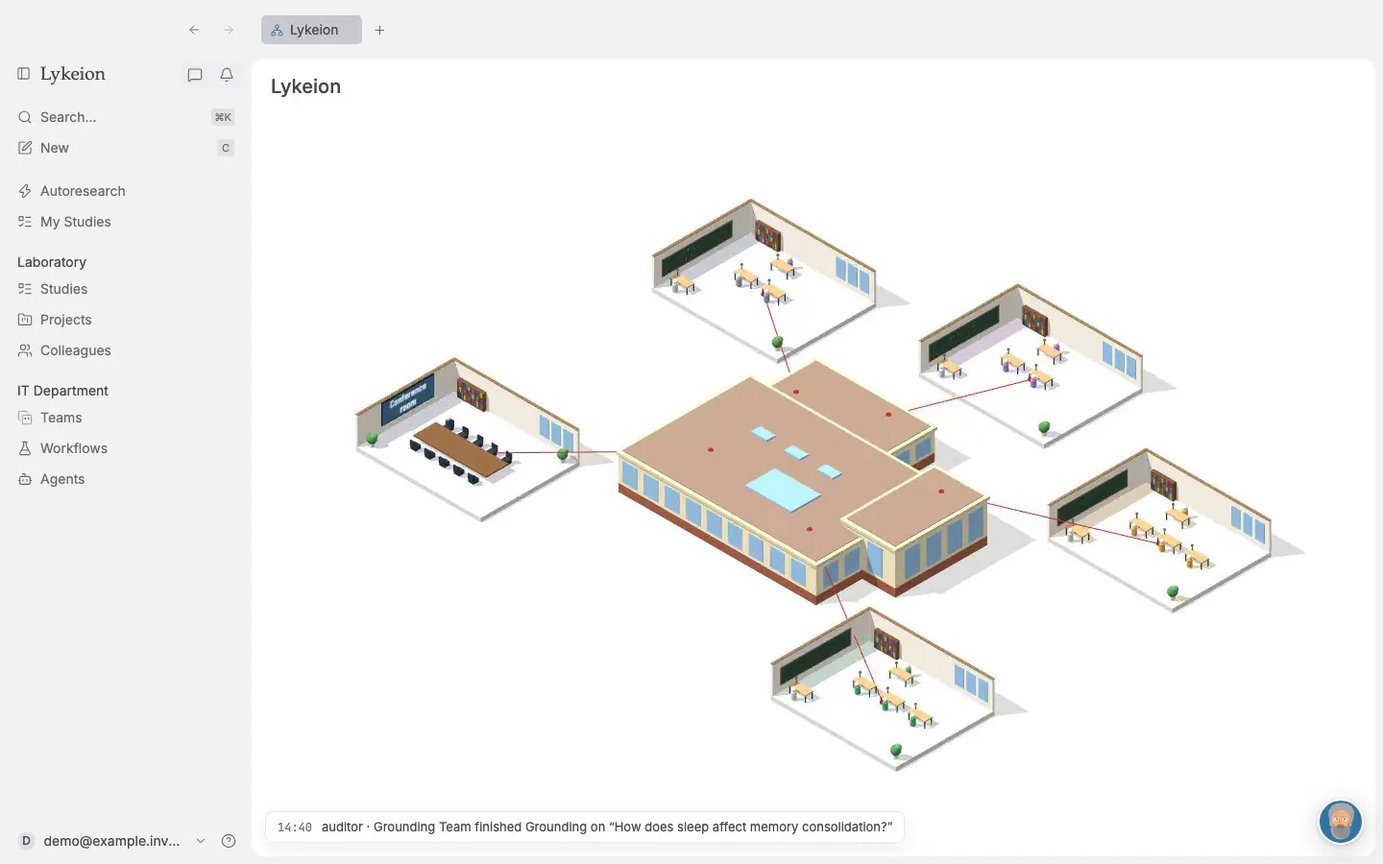
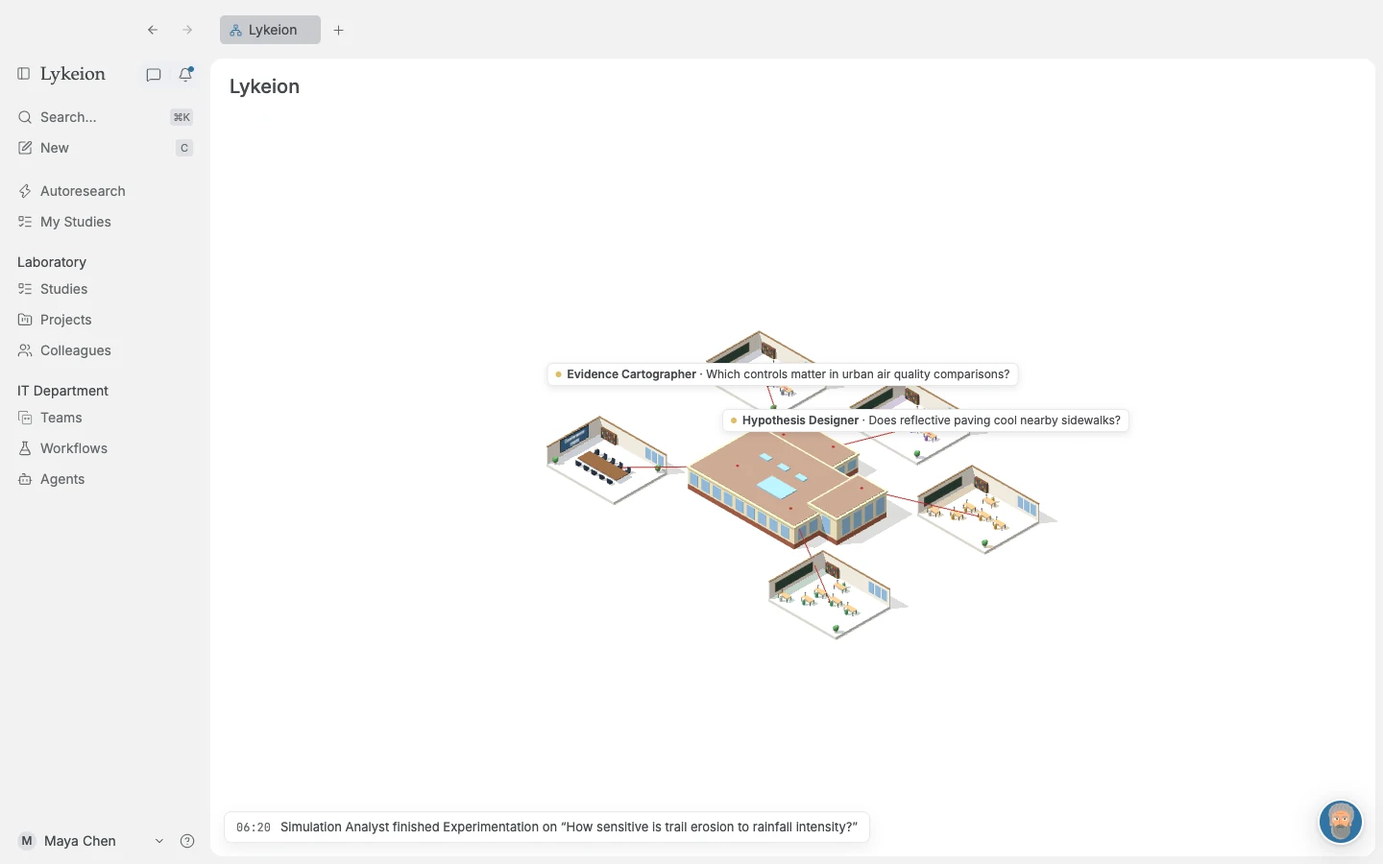
Refresh the website demo and README screenshots

diff --git a/apps/web/src/app/dashboard-preview.tsx b/apps/web/src/app/dashboard-preview.tsx
@@ -4,10 +4,16 @@ import { useEffect, useRef, useState } from 'react';
 
 const screens = {
   board: { label: 'Studies board', image: '/demo-photos/01-board.webp' },
-  study: { label: 'Study activity', image: '/demo-photos/02-study.webp' },
+  study: { label: 'How does tree shade change street temperatures?', image: '/demo-photos/02-study.webp' },
+  airQuality: { label: 'Which controls matter in urban air quality comparisons?', image: '/demo-preview/study2.webp' },
+  paving: { label: 'Does reflective paving cool nearby sidewalks?', image: '/demo-preview/study3.webp' },
+  erosion: { label: 'How sensitive is trail erosion to rainfall intensity?', image: '/demo-preview/study4.webp' },
+  replication: { label: 'Does a cooling estimate survive a held-out block?', image: '/demo-preview/study5.webp' },
   myStudies: { label: 'My Studies', image: '/demo-preview/demo-my-studies.webp' },
   workflows: { label: 'Workflows', image: '/demo-preview/demo-workflows.webp' },
   projects: { label: 'Projects', image: '/demo-preview/demo-projects.webp' },
+  project: { label: 'Urban Climate Lab', image: '/demo-preview/demo-project.webp' },
+  decisions: { label: 'Decisions', image: '/demo-preview/demo-decisions.webp' },
   coresearch: { label: 'Coresearch', image: '/demo-preview/demo-coresearch.webp' },
   autoresearch: { label: 'Autoresearch', image: '/demo-preview/demo-autoresearch.webp' },
   colleagues: { label: 'Colleagues', image: '/demo-preview/demo-colleagues.webp' },
@@ -21,36 +27,60 @@ type Screen = keyof typeof screens;
 type Hotspot = { label: string; to: Screen; x: number; y: number; width: number; height: number };
 
 const navigation: Hotspot[] = [
-  { label: 'Open Lykeion lab', to: 'lab', x: 10, y: 62, width: 145, height: 32 },
-  { label: 'Open My Studies', to: 'myStudies', x: 10, y: 215, width: 240, height: 32 },
-  { label: 'Open Workflows', to: 'workflows', x: 10, y: 451, width: 240, height: 32 },
-  { label: 'Open Studies board', to: 'board', x: 10, y: 284, width: 240, height: 32 },
-  { label: 'Open Projects', to: 'projects', x: 10, y: 316, width: 240, height: 32 },
-  { label: 'Open Colleagues', to: 'colleagues', x: 10, y: 348, width: 240, height: 32 },
-  { label: 'Open Autoresearch', to: 'autoresearch', x: 10, y: 183, width: 240, height: 32 },
-  { label: 'Open Teams', to: 'teams', x: 10, y: 419, width: 240, height: 32 },
-  { label: 'Open Agents', to: 'agents', x: 10, y: 483, width: 240, height: 32 },
-  { label: 'Open Coresearch', to: 'coresearch', x: 186, y: 62, width: 32, height: 28 },
+  { label: 'Open Lykeion lab', to: 'lab', x: 42, y: 67, width: 68, height: 23 },
+  { label: 'Open My Studies', to: 'myStudies', x: 10, y: 215, width: 199, height: 32 },
+  { label: 'Open Workflows', to: 'workflows', x: 10, y: 451, width: 199, height: 32 },
+  { label: 'Open Studies board', to: 'board', x: 10, y: 284, width: 199, height: 32 },
+  { label: 'Open Projects', to: 'projects', x: 10, y: 316, width: 199, height: 32 },
+  { label: 'Open Colleagues', to: 'colleagues', x: 10, y: 348, width: 199, height: 32 },
+  { label: 'Open Autoresearch', to: 'autoresearch', x: 10, y: 183, width: 199, height: 32 },
+  { label: 'Open Teams', to: 'teams', x: 10, y: 419, width: 199, height: 32 },
+  { label: 'Open Agents', to: 'agents', x: 10, y: 483, width: 199, height: 32 },
+  { label: 'Open Coresearch', to: 'coresearch', x: 146, y: 66, width: 28, height: 24 },
+  { label: 'Open Decisions', to: 'decisions', x: 179, y: 66, width: 28, height: 24 },
 ];
+const backToStudies = { label: 'Back to Studies', to: 'board', x: 231, y: 71, width: 20, height: 28 } as const;
 const details: Partial<Record<Screen, Hotspot[]>> = {
-  study: [{ label: 'Back to Studies', to: 'board', x: 270, y: 65, width: 45, height: 40 }],
-  agents: [{ label: 'Open Aristotle', to: 'aristotle', x: 280, y: 807, width: 850, height: 55 }],
+  study: [backToStudies],
+  airQuality: [backToStudies],
+  paving: [backToStudies],
+  erosion: [backToStudies],
+  replication: [backToStudies],
+  projects: [{ label: 'Open Urban Climate Lab', to: 'project', x: 239, y: 169, width: 155, height: 24 }],
+  project: [{ label: 'Back to Projects', to: 'projects', x: 231, y: 75, width: 20, height: 28 }],
+  agents: [{ label: 'Open Aristotle', to: 'aristotle', x: 239, y: 201, width: 1173, height: 53 }],
   aristotle: [
-    { label: 'Open Aristotle’s capabilities', to: 'capabilities', x: 714, y: 126, width: 100, height: 43 },
-    { label: 'Back to Agents', to: 'agents', x: 276, y: 68, width: 75, height: 35 },
+    { label: 'Open Aristotle’s capabilities', to: 'capabilities', x: 683, y: 126, width: 77, height: 43 },
+    { label: 'Back to Agents', to: 'agents', x: 235, y: 77, width: 63, height: 32 },
   ],
   capabilities: [
-    { label: 'Open Aristotle’s overview', to: 'aristotle', x: 625, y: 126, width: 90, height: 43 },
-    { label: 'Back to Agents', to: 'agents', x: 276, y: 68, width: 75, height: 35 },
+    { label: 'Open Aristotle’s overview', to: 'aristotle', x: 596, y: 126, width: 63, height: 43 },
+    { label: 'Back to Agents', to: 'agents', x: 235, y: 77, width: 63, height: 32 },
   ],
 };
 const signInActions = [
-  { label: 'Create a new item', x: 10, y: 137, width: 240, height: 32 },
-  { label: 'Open account', x: 10, y: 850, width: 220, height: 45 },
+  { label: 'Create a new item', x: 10, y: 138, width: 199, height: 32 },
+  { label: 'Open account', x: 10, y: 860, width: 171, height: 32 },
 ];
 
+// Coordinates are relative to the full board capture, including the offscreen columns.
+const boardStudies: { to: Screen; x: number; y: number }[] = [
+  { to: 'airQuality', x: 18, y: 56 },
+  { to: 'paving', x: 374, y: 56 },
+  { to: 'replication', x: 1798, y: 56 },
+  { to: 'erosion', x: 1798, y: 261 },
+  { to: 'study', x: 1798, y: 466 },
+];
+const boardWidth = 2136;
+const boardHeight = 731;
+function position({ x, y, width, height }: Omit<Hotspot, 'label' | 'to'>, imageWidth = 1440, imageHeight = 900) {
+  return { left: `${100 * x / imageWidth}%`, top: `${100 * y / imageHeight}%`,
+    width: `${100 * width / imageWidth}%`, height: `${100 * height / imageHeight}%` };
+}
+
 export default function DashboardPreview() {
-  const [screen, setScreen] = useState<Screen>('board');
+  const [trail, setTrail] = useState<Screen[]>(['board']);
+  const screen = trail[trail.length - 1];
   const viewport = useRef<HTMLDivElement>(null);
   const board = useRef<HTMLDivElement>(null);
   const notice = useRef<HTMLDialogElement>(null);
@@ -71,29 +101,45 @@ export default function DashboardPreview() {
     element.addEventListener('wheel', onWheel, { passive: false });
     return () => element.removeEventListener('wheel', onWheel);
   }, [screen]);
-  const show = (next: Screen) => {
-    setScreen(next);
+  const resetViewport = () => {
     viewport.current?.scrollTo({ top: 0, left: 0 });
+    viewport.current?.focus({ preventScroll: true });
   };
-  const nav = screen === 'coresearch'
-    ? [{ label: 'Back to Studies', to: 'board' as const, x: 10, y: 62, width: 125, height: 32 }]
+  const show = (next: Screen) => {
+    setTrail(current => current[current.length - 1] === next ? current : [...current, next]);
+    resetViewport();
+  };
+  const goBack = () => {
+    setTrail(current => current.length > 1 ? current.slice(0, -1) : current);
+    resetViewport();
+  };
+  const isBoard = screen === 'board' || screen === 'myStudies';
+  const hasBackArrow = screen === 'coresearch' || screen === 'decisions';
+  const nav = hasBackArrow
+    ? [{ ...backToStudies, x: 42, y: 67, width: 68, height: 23 }, ...navigation.slice(-2)]
     : navigation;
   return <section className="dashboard-shell" aria-label="Interactive Lykeion dashboard preview">
     <div className="dashboard-viewport" ref={viewport} tabIndex={0} aria-label="Dashboard preview; scroll to explore">
       <div className="dashboard-screen">
         <img src={screens[screen].image} alt={`Lykeion demo: ${screens[screen].label}`} width="1440" height="900" draggable={false}/>
-        {screen === 'board' && <div className="dashboard-board-scroll" ref={board} tabIndex={0} aria-label="Studies board; scroll to see more stages">
+        {isBoard && <div key={screen} className="dashboard-board-scroll" ref={board} tabIndex={0} aria-label="Studies board; scroll to see more stages">
           <div className="dashboard-board-content">
-            <img src="/demo-preview/board-scroll.webp" alt="Studies board stages" width="2136" height="731" draggable={false}/>
-            <button className="dashboard-hotspot board-study" aria-label="Open the sleep and memory study" onClick={() => show('study')}/>
-            <button className="dashboard-hotspot board-create" aria-label="Create a study" onClick={requireSignIn}/>
+            <img src="/demo-preview/board-scroll.webp" alt="Studies board stages" width={boardWidth} height={boardHeight} draggable={false}/>
+            {boardStudies.map(({ to, x, y }) => <button key={to} className="dashboard-hotspot"
+              aria-label={`Open study: ${screens[to].label}`} onClick={() => show(to)}
+              style={position({ x, y, width: 320, height: 197 }, boardWidth, boardHeight)}/>)}
+            {['Grounding', 'Hypotheses', 'Experimentation', 'Validation'].map((stage, index) =>
+              <button key={stage} className="dashboard-hotspot" aria-label={`Create a study in ${stage}`} onClick={requireSignIn}
+                style={position({ x: 308 + index * 356, y: 16, width: 28, height: 28 }, boardWidth, boardHeight)}/>)}
           </div>
         </div>}
-        {[...nav, ...(details[screen] ?? [])].map(h => <button key={h.label} className="dashboard-hotspot" aria-label={h.label} title={h.label} onClick={() => show(h.to)} style={{ left: `${h.x / 14.4}%`, top: `${h.y / 9}%`, width: `${h.width / 14.4}%`, height: `${h.height / 9}%` }}/>) }
-        {(screen === 'coresearch' ? [] : signInActions).map(h => <button key={h.label} className="dashboard-hotspot" aria-label={h.label} title={h.label} onClick={requireSignIn} style={{ left: `${h.x / 14.4}%`, top: `${h.y / 9}%`, width: `${h.width / 14.4}%`, height: `${h.height / 9}%` }}/>) }
-        {!aristotleOpen && <button className="dashboard-hotspot aristotle-trigger" aria-label="Open Aristotle’s floating window" title="Open Aristotle" onClick={() => { setAristotleExpanded(false); setAristotleOpen(true); }} style={{right:'1%',bottom:'1%',width:'4%',height:'6%',zIndex:1,background:screen === 'board' ? 'url(/demo-preview/aristotle-button.webp) center/128% 128% no-repeat' : undefined}}/>}
+        {hasBackArrow && <button className="dashboard-hotspot" aria-label="Go back" title="Go back" onClick={goBack}
+          style={position({ x: 142, y: 22, width: 36, height: 24 })}/>}
+        {[...nav, ...(details[screen] ?? [])].map(h => <button key={h.label} className="dashboard-hotspot" aria-label={h.label} title={h.label} onClick={() => show(h.to)} style={position(h)}/>) }
+        {signInActions.map(h => <button key={h.label} className="dashboard-hotspot" aria-label={h.label} title={h.label} onClick={requireSignIn} style={position(h)}/>) }
+        {!aristotleOpen && <button className="dashboard-hotspot aristotle-trigger" aria-label="Open Aristotle’s floating window" title="Open Aristotle" onClick={() => { setAristotleExpanded(false); setAristotleOpen(true); }} style={{ ...position({ x: 1372, y: 832, width: 48, height: 48 }), zIndex: 1, backgroundImage: isBoard ? 'url(/demo-preview/aristotle-button.webp)' : undefined }}/>}
         {aristotleOpen && <div className={aristotleExpanded ? "dashboard-aristotle expanded" : "dashboard-aristotle"}>
-          <img src={aristotleExpanded ? "/demo-preview/aristotle-expanded.webp" : "/demo-preview/aristotle-window.webp"} alt={aristotleExpanded ? "Aristotle’s expanded window" : "Aristotle’s floating window"} width="426" height={aristotleExpanded ? 556 : 116}/>
+          <img src={aristotleExpanded ? "/demo-preview/aristotle-expanded.webp" : "/demo-preview/aristotle-window.webp"} alt={aristotleExpanded ? "Aristotle’s expanded window" : "Aristotle’s floating window"} width="416" height={aristotleExpanded ? 544 : 104}/>
           <button className="dashboard-hotspot aristotle-close" aria-label="Minimize Aristotle" title="Minimize Aristotle" onClick={() => setAristotleOpen(false)}/>
           <button className="dashboard-hotspot aristotle-chat" aria-label={aristotleExpanded ? "Ask Aristotle" : "Expand Aristotle"} title={aristotleExpanded ? "Ask Aristotle" : "Expand Aristotle"} onClick={aristotleExpanded ? requireSignIn : () => setAristotleExpanded(true)}/>
           {aristotleExpanded && <button className="dashboard-hotspot aristotle-suggestions" aria-label="Ask a suggested question" title="Ask a suggested question" onClick={requireSignIn}/>}

diff --git a/apps/web/src/app/page.tsx b/apps/web/src/app/page.tsx
@@ -19,14 +19,15 @@ const cases = [
 ];
 
 
+const directoryFraming = { scale: '1.62', transformOrigin: '51% 19%' };
 const photos = [
-  ['01-board.webp', 'Study board showing a demo research question', 'Study board'],
-  ['02-study.webp', 'Study activity with the Grounding Team’s research findings', 'Study activity'],
-  ['03-agents.webp', 'List of agents in the demo workspace', 'Agents'],
-  ['04-teams.webp', 'Research teams in the demo workspace', 'Teams'],
-  ['05-aristotle.webp', 'Aristotle’s agent detail page', 'Aristotle'],
-  ['06-lab.webp', 'The Lykeion lab and its connected rooms', 'The lab'],
-];
+  ['01-board.webp', 'Study board showing a demo research question'],
+  ['02-study.webp', 'Study activity with the Grounding Team’s research findings', { scale: '1.98', transformOrigin: '57% 25%' }],
+  ['03-agents.webp', 'List of agents in the demo workspace', directoryFraming],
+  ['04-teams.webp', 'Research teams in the demo workspace', directoryFraming],
+  ['05-aristotle.webp', 'Aristotle’s agent detail page', { scale: '1.6', transformOrigin: '54% 20%' }],
+  ['06-lab.webp', 'The Lykeion lab and its connected rooms'],
+] as const;
 const roleVideos = [
   ['v1-evidence.mp4', '01-board.webp', 'A study and its evidence'],
   ['v2-aristotle.mp4', '05-aristotle.webp', 'Aristotle’s agent capabilities'],
@@ -97,9 +98,9 @@ export default function Home() {
     <div className="works-with" aria-label="Works with Claude Code and Codex"><span>Works with</span><span className="works-with-provider"><svg viewBox="0 0 24 24" width="18" height="18" fill="#D97757" aria-hidden="true"><path d={cliIconPaths.claude}/></svg>Claude Code</span><span className="works-with-provider"><svg viewBox="0 0 24 24" width="18" height="18" fill="currentColor" aria-hidden="true"><path d={cliIconPaths.codex}/></svg>Codex</span></div>
     <div className="product-landscape"><section className="product-intro wrap"><h2>Lykeion</h2><p className="hero-origin"><strong>Designed</strong> and <strong>Engineered</strong> in 🇩🇰 by 🇮🇹 scholars</p><div className="download-buttons"><a className="pill primary" href="/download/">Download app</a><a className="pill demo-button" href="/contact-sales/">Book a demo</a></div><ul className="product-features"><li><Bot size={18} strokeWidth={1.7} aria-hidden="true"/><div><strong>Agents and Teams</strong><p>Work with one agent or choose a Team with roles for each stage.</p></div></li><li><Monitor size={18} strokeWidth={1.7} aria-hidden="true"/><div><strong>Your machine</strong><p>Run supported agent CLIs in the operating system’s sandbox.</p></div></li><li><FileText size={18} aria-hidden="true"/><div><strong>Evidence with provenance</strong><p>Recorded sources and outputs connect work to evidence.</p></div></li></ul></section>
     <div className="dashboard-landscape"><DashboardPreview/></div></div>
-    <section className="intro wrap" id="use-cases"><h2>Your question. Your evidence.<br/>Your whole lab, working together.</h2><p>Turn a research question into a study that agents can work<br/>and people can steer.</p></section>
-    <section className="cases wrap" ref={casesRef}><div className="section-kicker"><span>USE CASES</span><span>{active + 1} / {cases.length}</span></div><div className="cases-grid"><div className="case-art"><img src={`/demo-use-cases/${photos[active][0]}`} alt={photos[active][1]}/></div><div className="accordion">{cases.map((item, i) => <div className="accordion-item" key={item[0]}>{active === i && canAnimate && casesVisible && <div className="case-progress" aria-hidden="true" key={`${i}-${rotationKey}`}/>}<button aria-expanded={active === i} onClick={() => { setActive(i); setRotationKey(k => k + 1); }}><span>{item[0]}</span></button>{active === i && <div><p>{item[1]}</p><a href={item[2]} className="pill primary">{item[3]} <ArrowUpRight size={15}/></a></div>}</div>)}</div></div></section>
-    <section className="roles wrap" id="workspace"><div className="center-title"><h2>People and agents work together.<br/>On the same research.</h2><p>Different roles, one shared view of the work.</p></div><div className="role-grid">{[['BOARD', 'Start with a question.', 'Create a study, choose an agent or Team, and follow the work as it moves through the board.', 'board'], ['AGENT', 'Work in a real environment.', 'Agents run the tools they need on a connected machine, with their work and outputs recorded.', 'study'], ['ARISTOTLE', 'Ask your lab a question.', 'Open Aristotle and ask about the studies and evidence your lab has recorded.', 'evidence']].map((r, i) => <article key={r[0]}><div className="role-label"><span aria-hidden="true">{[<ListTodo key="studies" size={17} strokeWidth={1.7}/>, <Bot key="bot" size={17} strokeWidth={1.7}/>, <Brain key="brain" size={17} strokeWidth={1.7}/>][i]}</span><small>{r[0]}</small></div><VideoPreview video={roleVideos[i]}/><h3>{r[1]}</h3><p>{r[2]}</p></article>)}</div></section>
+    <section className="intro wrap" id="use-cases"><h2>Your questions. Your evidence.<br/>Your whole lab, working together.</h2><p>Set the direction for a study, then follow the evidence as<br/>agents carry out the work.</p></section>
+    <section className="cases wrap" ref={casesRef}><div className="section-kicker"><span>USE CASES</span><span>{active + 1} / {cases.length}</span></div><div className="cases-grid"><div className="case-art"><img src={`/demo-use-cases/${photos[active][0]}`} alt={photos[active][1]} style={photos[active][2]}/></div><div className="accordion">{cases.map((item, i) => <div className="accordion-item" key={item[0]}>{active === i && canAnimate && casesVisible && <div className="case-progress" aria-hidden="true" key={`${i}-${rotationKey}`}/>}<button aria-expanded={active === i} onClick={() => { setActive(i); setRotationKey(k => k + 1); }}><span>{item[0]}</span></button>{active === i && <div><p>{item[1]}</p><a href={item[2]} className="pill primary">{item[3]} <ArrowUpRight size={15}/></a></div>}</div>)}</div></div></section>
+    <section className="roles wrap" id="workspace"><div className="center-title"><h2>People and agents work together.<br/>On the same research.</h2><p>Different roles, one shared view of the work.</p></div><div className="role-grid">{[['BOARD', 'Start with a question.', 'Create a study, choose an agent or Team, and follow the work as it moves through the board.', 'board'], ['AGENTS', 'Work in a real environment.', 'Agents run the tools they need on a connected machine, with their work and outputs recorded.', 'study'], ['ARISTOTLE', 'Ask your lab a question.', 'Open Aristotle and ask about the studies and evidence your lab has recorded.', 'evidence']].map((r, i) => <article key={r[0]}><div className="role-label"><span aria-hidden="true">{[<ListTodo key="studies" size={17} strokeWidth={1.7}/>, <Bot key="bot" size={17} strokeWidth={1.7}/>, <Brain key="brain" size={17} strokeWidth={1.7}/>][i]}</span><small>{r[0]}</small></div><VideoPreview video={roleVideos[i]}/><h3>{r[1]}</h3><p>{r[2]}</p></article>)}</div></section>
     <section className="split wrap"><div><h2>Agents that work<br/>where you do.</h2><p>Your machine runs the agent CLIs you already use. Lykeion keeps their work connected to the study.</p><a className="pill primary" href={cta}>Open your lab</a><div className="agent-motion" aria-hidden="true"><div className="agent-motion-top"><span>LYKEION</span><span className="agent-motion-status"><i/> WORKING</span></div><div className="agent-motion-body"><div className="agent-motion-orbit"><div className="agent-motion-core"><Bot size={30} strokeWidth={1.4}/></div><span className="agent-motion-dot dot-one"/><span className="agent-motion-dot dot-two"/><span className="agent-motion-dot dot-three"/><span className="agent-motion-dot dot-four"/></div><div className="agent-motion-steps"><span>GROUNDING</span><span>HYPOTHESES</span><span>EXPERIMENTATION</span><span>VALIDATION</span></div></div><div className="agent-motion-bottom"><span>RESEARCH IN PROGRESS</span><span>✳</span></div></div></div><div className="split-art">
       <blockquote className="aristotle-quote"><p>“He who sees things grow from the beginning will have the best view of them.”</p><footer>Aristotle</footer></blockquote>
     </div></section>

diff --git a/apps/web/src/app/globals.css b/apps/web/src/app/globals.css
@@ -30,16 +30,16 @@
 .video-modal{position:fixed;inset:0;width:100%;height:100%;max-width:none;max-height:none;margin:0;padding:70px 40px;overflow:auto;border:0;background:transparent;color:#fff}.video-modal::backdrop{background:rgba(0,0,0,.9);backdrop-filter:blur(6px)}.video-modal-frame{width:min(1200px,100%);margin:auto;overflow:hidden;border:1px solid #ffffff24;border-radius:10px;background:#080b0f}.video-modal-bar{display:flex;align-items:center;gap:24px;height:40px;padding:0 16px;background:#202c3b;color:#d4dce5;font-size:13px}.video-modal-bar span:first-child{color:#87919c;letter-spacing:3px}.video-modal-frame video{display:block;width:100%;max-height:calc(100vh - 190px);background:#000}.video-modal-close{position:fixed;top:20px;right:24px;display:grid;place-items:center;width:42px;height:42px;border:1px solid #ffffff40;border-radius:50%;background:#0b0d10;color:#fff}.video-modal-close:hover{background:#293645}@media(max-width:700px){.video-modal{padding:80px 16px}.video-modal-close{top:16px;right:16px}.video-modal-frame video{max-height:calc(100vh - 200px)}}
 
 .dashboard-preview-heading{display:flex;justify-content:space-between;gap:12px;padding:4px 8px 10px;color:#506476;font-size:12px;font-weight:600}.dashboard-preview-heading span:last-child{font-weight:400}.dashboard-viewport{height:min(620px,48vw);min-height:360px;overflow:auto;border:1px solid #dfe7ed;border-radius:7px;background:#f1f1f1;overscroll-behavior:auto}.dashboard-screen{position:relative;width:100%;min-width:800px;aspect-ratio:8/5}.dashboard-screen img{display:block;width:100%;height:100%}.dashboard-hotspot{position:absolute;padding:0;border:1px solid transparent;border-radius:5px;background:transparent}.dashboard-hotspot:hover{border-color:#006dd5;background:#006dd51a}.dashboard-hotspot:focus-visible{outline:3px solid #006dd5;outline-offset:-3px;background:#006dd522}.dashboard-shortcuts{display:flex;gap:6px;overflow-x:auto;padding:10px 2px 2px}.dashboard-shortcuts button{flex:none;padding:6px 10px;border:1px solid #cfdbe4;border-radius:18px;background:#fff;color:#526575;font-size:12px;font-weight:600}.dashboard-shortcuts button[aria-pressed=true]{background:#006dd5;border-color:#006dd5;color:#fff}.dashboard-preview-caption{padding:7px 4px 1px;color:#607383;font-size:12px}.dashboard-viewport:focus-visible{outline:3px solid #e7c148;outline-offset:3px}@media(max-width:700px){.dashboard-preview-heading{flex-direction:column;gap:2px}.dashboard-viewport{height:300px;min-height:0}.dashboard-screen{min-width:800px}}
-.dashboard-shell{width:min(1160px,calc(100% - 240px));background:#ecebe8;border-color:#d8d7d4}.dashboard-viewport{height:auto;min-height:0;max-height:none}.dashboard-aristotle{position:absolute;right:1%;bottom:1%;width:29.6%;z-index:2}.dashboard-aristotle img{width:100%;height:auto}.aristotle-close{left:3%;top:5%;width:10%;height:34%}.aristotle-chat{left:4%;top:46%;width:92%;height:48%}.dashboard-notice{width:min(420px,calc(100% - 40px));padding:32px;border:1px solid #d8d7d4;border-radius:12px;background:#faf9f6;color:var(--ink);box-shadow:0 16px 70px #0003}.dashboard-notice::backdrop{background:#15233188}.dashboard-notice h2{font-size:26px}.dashboard-notice p{margin:16px 0 24px;color:#687987}.dashboard-notice-close{float:right;border:0;background:transparent;font-size:26px;line-height:1}@media(max-width:1000px){.dashboard-shell{width:calc(100% - 100px)}}@media(max-width:700px){.dashboard-shell{width:calc(100% - 24px)}.dashboard-viewport{height:auto;max-height:500px}}
+.dashboard-shell{width:min(1160px,calc(100% - 240px));background:#ecebe8;border-color:#d8d7d4}.dashboard-viewport{height:auto;min-height:0;max-height:none}.dashboard-aristotle{position:absolute;right:1.3889%;bottom:2.2222%;width:28.8889%;z-index:2}.dashboard-aristotle img{width:100%;height:auto}.aristotle-close{left:2.64%;top:8.65%;width:7.22%;height:28.85%}.aristotle-chat{left:10%;top:48%;width:88%;height:46%}.dashboard-notice{width:min(420px,calc(100% - 40px));padding:32px;border:1px solid #d8d7d4;border-radius:12px;background:#faf9f6;color:var(--ink);box-shadow:0 16px 70px #0003}.dashboard-notice::backdrop{background:#15233188}.dashboard-notice h2{font-size:26px}.dashboard-notice p{margin:16px 0 24px;color:#687987}.dashboard-notice-close{float:right;border:0;background:transparent;font-size:26px;line-height:1}@media(max-width:1000px){.dashboard-shell{width:calc(100% - 100px)}}@media(max-width:700px){.dashboard-shell{width:calc(100% - 24px)}.dashboard-viewport{height:auto;max-height:500px}}
 
-.dashboard-aristotle.expanded .aristotle-close{top:1%;height:8%}.dashboard-aristotle.expanded .aristotle-chat{top:88%;height:11%}.aristotle-suggestions{left:4%;top:44%;width:92%;height:39%}
+.dashboard-aristotle.expanded .aristotle-close{top:1.65%;height:5.52%}.dashboard-aristotle.expanded .aristotle-chat{top:88%;height:11%}.aristotle-suggestions{left:5%;top:44.8%;width:90%;height:39%}
 
-.dashboard-board-scroll{position:absolute;left:18.1944%;top:17.8889%;width:81.25%;height:81.2222%;overflow-x:auto;overflow-y:hidden;overscroll-behavior-x:contain}.dashboard-board-content{position:relative;width:182.564%;height:100%}.dashboard-board-content img{width:100%;height:100%}.board-study{left:.8%;top:7%;width:15%;height:24%}.board-create{left:13.9%;top:1%;width:2%;height:6%}.dashboard-board-scroll:focus-visible{outline:3px solid #e7c148;outline-offset:-3px}
+.dashboard-board-scroll{position:absolute;left:15.2083%;top:17.8889%;width:84.2361%;height:81.2222%;overflow-x:auto;overflow-y:hidden;overscroll-behavior-x:contain}.dashboard-board-content{position:relative;width:176.0923%;height:100%}.dashboard-board-content img{width:100%;height:100%}.dashboard-board-scroll:focus-visible{outline:3px solid #e7c148;outline-offset:-3px}
 .dashboard-board-scroll{scrollbar-width:none}.dashboard-board-scroll::-webkit-scrollbar{display:none}
 .split-art{display:grid;place-items:center;overflow:hidden;background:#ecebe8}
 .video-modal-bar{display:grid;grid-template-columns:1fr minmax(0,280px) 1fr;gap:12px}.video-modal-dots{justify-self:start}.video-modal-address{display:flex;align-items:center;gap:10px;min-width:0;padding:5px 9px;border-radius:7px;background:#394454;color:#d4dce5}.video-modal-address svg{flex:none;color:#a6b3c1}.video-modal-address span{overflow:hidden;text-overflow:ellipsis;white-space:nowrap}.video-modal-fullscreen{justify-self:end;display:grid;place-items:center;padding:5px;border:0;background:transparent;color:#aab6c3}.video-modal-fullscreen:hover{color:#fff}
 
-.dashboard-hotspot.aristotle-trigger{border-radius:50%}
+.dashboard-hotspot.aristotle-trigger{border-radius:50%;background-size:100% 100%}
 
 .hero-origin{color:#73818d;font-size:19px;line-height:1.5;text-align:center}
 
@@ -71,3 +71,6 @@
 @media(max-width:700px){.get-started{margin-bottom:80px}}
 
 .footer-bottom-links > .footer-social{grid-column:auto;display:flex;gap:16px;align-items:center;justify-self:end}.footer-social a{display:flex;align-items:center}.footer-social img{display:block}
+
+.nav-login:hover{background:#f0d16f;border-color:#f0d16f}
+.demo-button:hover{background:#e9f4ff;border-color:var(--blue)}

diff --git a/apps/web/src/app/about/about.css b/apps/web/src/app/about/about.css
@@ -1,4 +1,4 @@
-.about-page{background:#faf9f6;padding:100px 24px 140px}.about-content{max-width:700px;margin:0 auto}.about-content h1{font:400 clamp(38px,5vw,52px)/1.15 var(--serif);margin-bottom:38px}.about-content p{color:#657785;font-size:16px;line-height:1.85;margin:0 0 25px}.about-content strong{color:var(--ink)}.about-github{display:inline-flex;align-items:center;gap:9px;margin-top:16px}.about-github img{filter:brightness(0) invert(1)}.about-person{border-top:1px solid var(--line);margin-top:80px;padding-top:64px}.about-person h2{font:400 30px/1.3 var(--serif);margin-bottom:28px}.about-person h2 s{color:#a5afb7;text-decoration-thickness:1px;margin-right:10px}.about-cards{display:grid;grid-template-columns:1fr 1fr;border:1px solid var(--line);border-radius:10px;overflow:hidden;margin-top:48px}.about-cards>a,.about-cards>div{min-height:100px;padding:20px 24px;display:flex;flex-direction:column;gap:10px;border-bottom:1px solid var(--line)}.about-cards>:nth-child(odd){border-right:1px solid var(--line)}.about-cards>:nth-last-child(-n+2){border-bottom:0}.about-cards small{font:700 11px 'Courier New',monospace;letter-spacing:.08em;color:#8797a3}.about-cards strong{display:flex;align-items:center;gap:6px;font-size:15px;font-weight:600}.about-cards a:hover strong{color:var(--blue)}.about-cards [aria-disabled=true] strong{color:#97a3ac}@media(max-width:700px){.about-page{padding:65px 20px 90px}.about-person{margin-top:60px;padding-top:48px}.about-person h2{font-size:26px}.about-cards>a,.about-cards>div{padding:18px;min-height:95px}}
+.about-page{background:#faf9f6;padding:100px 24px 140px}.about-content{max-width:700px;margin:0 auto}.about-content h1{font:400 clamp(38px,5vw,52px)/1.15 var(--serif);margin-bottom:38px}.about-content p{color:#657785;font-size:16px;line-height:1.85;margin:0 0 25px}.about-content strong{color:var(--ink)}.about-github{display:inline-flex;align-items:center;gap:9px;margin-top:16px}.about-github img{filter:brightness(0) invert(1)}.about-person{border-top:1px solid var(--line);margin-top:80px;padding-top:64px}.about-person h2{font:400 30px/1.3 var(--serif);margin-bottom:28px}.about-person h2 s{color:#a5afb7;text-decoration-thickness:1px;margin-right:10px}.about-cards{display:grid;grid-template-columns:1fr 1fr;border:1px solid var(--line);border-radius:10px;overflow:hidden;margin-top:48px}.about-cards>a{min-height:100px;padding:20px 24px;display:flex;flex-direction:column;gap:10px;border-bottom:1px solid var(--line)}.about-cards>:nth-child(odd){border-right:1px solid var(--line)}.about-cards>:nth-last-child(-n+2){border-bottom:0}.about-cards small{font:700 11px 'Courier New',monospace;letter-spacing:.08em;color:#8797a3}.about-cards strong{display:flex;align-items:center;gap:6px;font-size:15px;font-weight:600}.about-cards a:hover strong{color:var(--blue)}@media(max-width:700px){.about-page{padding:65px 20px 90px}.about-person{margin-top:60px;padding-top:48px}.about-person h2{font-size:26px}.about-cards>a{padding:18px;min-height:95px}}
 
 .about-cards a strong{text-decoration:underline;text-underline-offset:3px}
 

diff --git a/apps/web/src/app/about/page.tsx b/apps/web/src/app/about/page.tsx
@@ -24,8 +24,8 @@ export default function AboutPage() {
       </section>
       <div className="about-cards" aria-label="Contact and resources">
         <a href="/contact-sales/"><small>CONTACT</small><strong>Contact sales</strong></a>
-        <div aria-disabled="true"><small>HOW LICENSING WORKS</small><strong>Licensing FAQ</strong></div>
-        <div aria-disabled="true"><small>COMMUNITY</small><strong>Discord</strong></div>
+        <a href="https://github.com/lykeion-tech/lykeion/blob/main/LICENSE"><small>HOW LICENSING WORKS</small><strong>Licensing FAQ</strong></a>
+        <a href="https://discord.gg/ed3jsMTs3"><small>COMMUNITY</small><strong>Discord</strong></a>
         <a href="https://github.com/lykeion-tech/lykeion"><small>SOURCE CODE &amp; ISSUES</small><strong>GitHub</strong></a>
       </div>
     </div></main>

diff --git a/README.md b/README.md
@@ -25,7 +25,7 @@
   <a href="https://github.com/lykeion-tech/lykeion/releases/latest">Latest release</a>
 </p>
 
-![A Lykeion lab board with studies moving through Grounding, Hypotheses, Experimentation and Validation](apps/web/public/lab-board.webp)
+![Lykeion’s study board showing a demo research question](apps/web/public/demo-use-cases/01-board.webp)
 
 ## Why Lykeion
 
@@ -50,13 +50,22 @@ A study advances only when its gate passes. The server checks what it can verify
 
 Agents search the literature through Lykeion's sources server (OpenAlex, Europe PMC and arXiv), and every source they rely on is recorded. Attachments and the files agents save with `lyk output put` are recorded too. Every claim an agent keeps must cite a recorded source, so any conclusion can be traced back to where it came from.
 
-![An evidence assessment with its recorded sources and saved outputs](apps/web/public/demo/evidence.webp)
+![A study’s research question and recorded activity](apps/web/public/demo-use-cases/02-study.webp)
 
 ## Build your lab.
 
 _Give every stage the right researchers, and every researcher the right tools._
 
-![The Grounding Team: a leader, a searcher, a verifier and an auditor, each with its own instructions](apps/web/public/demo/team.webp)
+<table>
+  <tr>
+    <td width="50%"><img src="apps/web/public/demo-use-cases/03-agents.webp" alt="Agents available in the demo workspace"></td>
+    <td width="50%"><img src="apps/web/public/demo-use-cases/04-teams.webp" alt="Research Teams for the four study stages"></td>
+  </tr>
+  <tr>
+    <td align="center">Agents</td>
+    <td align="center">Teams</td>
+  </tr>
+</table>
 
 - **[Agents](https://app.lykeion.tech/docs/agents/) →** Reusable research roles, each with instructions, a stage, capabilities and a machine to run on.
 - **[Teams](https://app.lykeion.tech/docs/teams/) →** A leader and members for one stage. Four stage Teams ship with Lykeion; duplicate one to make it your own.
@@ -68,29 +77,20 @@ _Give every stage the right researchers, and every researcher the right tools._
 
 _It starts as a question. It ends as cited evidence, tested hypotheses and a report._
 
-![Ask Aristotle answering a question about a study, with links to the evidence behind each statement](apps/web/public/demo/aristotle.webp)
+![Aristotle’s agent details, role and capabilities in the lab](apps/web/public/demo-use-cases/05-aristotle.webp)
 
 - **[Start a study](https://app.lykeion.tech/docs/studies/) →** Write the question, its boundaries and the output you want, then assign it to an agent or a Team.
 - **[Autoresearch](https://app.lykeion.tech/docs/autoresearch/) →** Run a saved research runbook on a schedule or from a webhook, such as a weekly literature watch.
 - **[Ask Aristotle](https://app.lykeion.tech/docs/aristotle/) →** Lykeion's research coordinator answers questions about your workspace and shows the evidence behind each answer.
 - **[Coresearch](https://app.lykeion.tech/docs/coresearch/) →** Shared projects with an Experiment mode (files, notebook kernels and recorded runs) and a Cowrite mode, where people and agents edit a LaTeX paper together.
 
-<table>
-  <tr>
-    <td width="50%"><img src="apps/web/public/demo/cowrite.webp" alt="Cowrite: a LaTeX paper edited together with an agent, next to its compiled PDF"></td>
-    <td width="50%"><img src="apps/web/public/demo-photos/06-lab.webp" alt="The Lab chart: the laboratory's rooms and the agents working in them"></td>
-  </tr>
-  <tr>
-    <td align="center">Cowrite</td>
-    <td align="center">The Lab chart</td>
-  </tr>
-</table>
+![The Lab chart showing the laboratory’s connected rooms](apps/web/public/demo-use-cases/06-lab.webp)
 
 ## Stay in the loop.
 
 _Which agent did this? What did it run? What is it based on? Open the study._
 
-![A run transcript: each step the agent took, its errors and retries, and the files it saved](apps/web/public/demo/run.webp)
+![The Decisions page showing study questions awaiting the researcher’s input](apps/web/public/demo-preview/demo-decisions.webp)
 
 - **[Runs](https://app.lykeion.tech/docs/runs/) →** Read every attempt: its steps, tool calls, errors and hand-in, next to the files it produced.
 - **[Evidence and results](https://app.lykeion.tech/docs/evidence-and-results/) →** Open a study's Files, Notebook and Review to check what an agent says it delivered.
